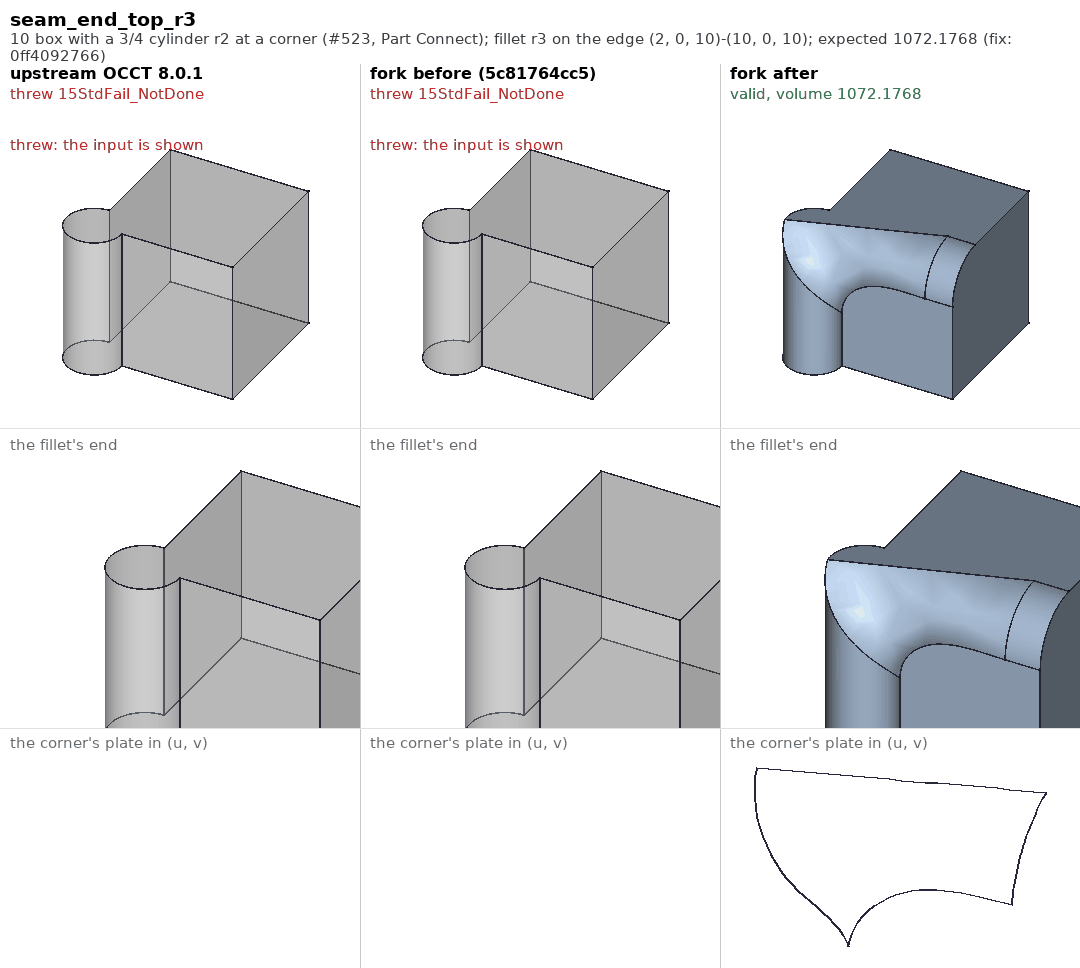
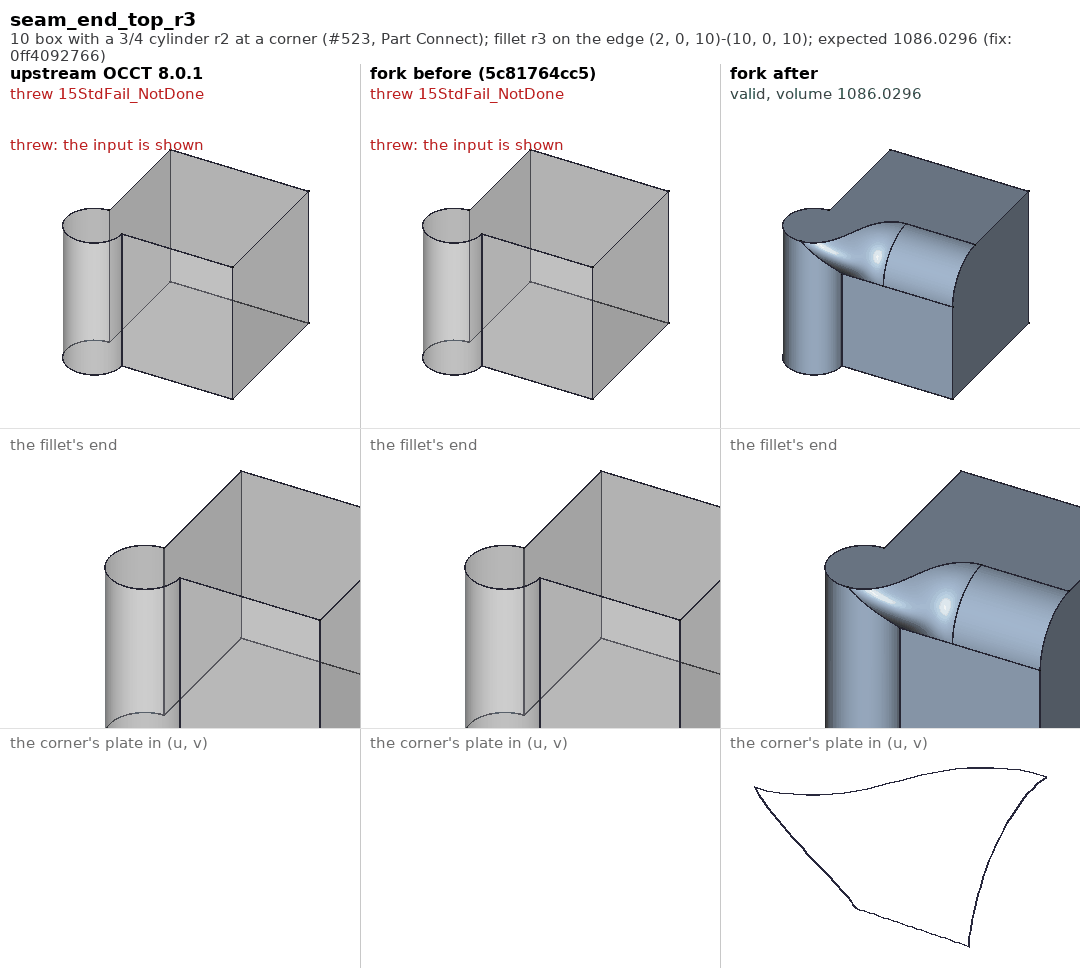
fillet: the setback pictures redrawn for today's results (pictures, docs)
seam_end_top_r2.5, seam_end_top_r3 and issue876_corner4_r1 were drawn
when the setback fallback landed; later changes to it (the patch
approximated to its boundary, the end of its curve on the box's side
freed) moved them: 1087.9914 (was 1085.6014, a notch in the patch),
1086.0296 (was 1072.1768, set back twice the radius, a scooped blend --
now one radius, as at 2.5), 8665.7912 (was 8665.7870, the cusp gone from
the plate's outline). Fillet.md describes what they show now and what
they showed; cases.py takes the volumes. README: issue962_rib_chamfer_1.2
measured inherent (split and refined alike) and left as it is.

Claude-Session: https://claude.ai/code/session_01SZd36tCuMpo18RwNKowWHa

diff --git a/fillet/pictures/cases.py b/fillet/pictures/cases.py
@@ -435,10 +435,10 @@ CASES = {
                                              ((-17, 16.75, 3), (17, 16.75, 3)),
                                              ((19.238761, 15.746985, 3), (17, 16.75, 3)),
                                              ((17, 16.75, 3), (17, 16.442791, 20.6))],
-                            1.0, 8665.7870, (17, 16.75, 3), (0.6, 1, 0.7)),
-    "seam_end_top_r2.5": ("s894", "boxcyl", ((2, 0, 10), (10, 0, 10)), 2.5, 1085.6014,
+                            1.0, 8665.7912, (17, 16.75, 3), (0.6, 1, 0.7)),
+    "seam_end_top_r2.5": ("s894", "boxcyl", ((2, 0, 10), (10, 0, 10)), 2.5, 1087.9914,
                           (2, 0, 10), (0.55, -1, 0.75)),
-    "seam_end_top_r3": ("s894", "boxcyl", ((2, 0, 10), (10, 0, 10)), 3.0, 1072.1768,
+    "seam_end_top_r3": ("s894", "boxcyl", ((2, 0, 10), (10, 0, 10)), 3.0, 1086.0296,
                         (2, 0, 10), (0.55, -1, 0.75)),
     "issue962_rib_top_r0.8": ("s962i", "p962", ((35.5, 20.3, 32.25), (38.5, 20.3, 32.25)), 0.8,
                               11580.9213, (39.2, 20.3, 31.6), (0.6, 1, 0.7)),

diff --git a/fillet/models/Fillet.md b/fillet/models/Fillet.md
@@ -445,33 +445,35 @@ far corner, (-17,16.75,3)) and upstream refused. Now both corners are set
 back where their fillets meet. In the zoom, the vertical fillet and the
 one along the base stop short of the corner, and the patch closes it. Its
 outline is the third row: six edges -- the ends of those two fillets (1.41
-each), a curve on each of the two plane walls (1.57), and the ends of the
-other two fillets (0.0175 each), which run along edges between walls a
-degree apart and are all but flat: the cusp at the left. Those walls being
-so nearly flat, the volume moves by thousandths. The red mark by the left hole is the
-input's own: the holes' seam edges are stored once, not once each way
-round.
+and 1.46), a curve on each of the two plane walls (1.50), and the ends of
+the other two fillets (0.0175 each), which run along edges between walls a
+degree apart and are all but flat: the outline's left end, where they meet.
+Those walls being so nearly flat, the volume moves by thousandths. The red
+mark by the left hole is the input's own: the holes' seam edges are stored
+once, not once each way round.
 
 ![issue876_corner4_r1](pictures/issue876_corner4_r1.png)
 
 The box and cylinder of #523 past the cylinder's radius, the end refused as
 a cut over two faces ("bouchon non ecrit") by the fork before and upstream
-alike. At radius 2.5 the end is set back where the fillet meets the corner:
-the fillet stops partway along the edge, and the patch blends on into the
-cylinder's top and down the box's side. Its boundary on the side has a
-small notch near the cylinder -- the hook at the bottom of the third row --
-valid, but not as smooth as a fillet run on to the cylinder would be (that
-fillet, the boolean's, is 1083.3063; this is 1085.6014).
+alike. At radius 2.5 the fillet stops one radius short of the corner (at
+x = 4.5), and the patch blends on into the cylinder's top and down the
+box's side: four edges, the fillet's end (its quarter circle), a curve on
+the top, one on the side and the cylinder's. Valid, and close to the fillet
+run on to the cylinder (that fillet, the boolean's, is 1083.3063; this is
+1087.9914).
 
 ![seam_end_top_r2.5](pictures/seam_end_top_r2.5.png)
 
-At radius 3 the nearer setbacks leave edges looser than a twentieth of the
-radius, and only twice the radius passes: 6 on an edge 8 long. What is left
-of the fillet is its last 2, at the far end; the rest is the patch, scooped
-from the cylinder's top down the box's side. Valid, and a shape where there
-was none, but more a blend than a fillet -- a user asking for this fillet
-should know that is what the fallback gives here (1072.1768, against the
-run-on fillet's 1078.3294).
+At radius 3 the same, the fillet stopping at x = 5 (1086.0296, against the
+run-on fillet's 1078.3294). Both pictures were drawn again after later
+changes to the fallback moved them -- the patch approximated to its own
+boundary rather than to the plate, and the end of its curve on the box's
+side freed from a right angle to its chord (`../README.md`). Before those,
+radius 2.5 had a notch in the patch's curve on the side (1085.6014), and at
+radius 3 the nearer setbacks left edges too loose and only twice the radius
+passed: what was left of the fillet was its last 2 of 8, the rest a patch
+scooped from the cylinder's top down the box's side (1072.1768).
 
 ![seam_end_top_r3](pictures/seam_end_top_r3.png)
 

diff --git a/fillet/README.md b/fillet/README.md
@@ -1422,7 +1422,7 @@ nothing else; vertex, nothing moves.
 
 | Case | Symptom |
 |------|---------|
-| `issue962_rib_chamfer_1.2` | "Self-intersecting wire" on the rib's wall: the chain turns from the rib's top down its front on an arc of radius 1, and a chamfer of 1 or more turns back on itself there -- on the refined shape too (1 is refused on both). Refused before, at the foot, which is made now |
+| `issue962_rib_chamfer_1.2` | "Self-intersecting wire" on the rib's wall: the chain turns from the rib's top down its front on an arc of radius 1, and a chamfer of 1 or more turns back on itself there. Inherent, measured 2026-10-10: split and refined shapes alike are valid at 0.9, 0.95, 0.99 (equal volumes), refused at 1, and invalid from 1.01 to 1.5 -- upstream's behaviour on a wall in one face. Left as it is (decided): FreeCAD rejects an invalid result; refusing early would move every chamfer along a tight arc. Refused before, at the foot, which is made now |
 
 ## Pictures
 
